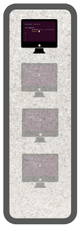
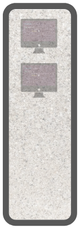
changing level 2

diff --git a/maze/js/level2.js b/maze/js/level2.js
@@ -752,8 +752,6 @@ Maze.Level2.DisplayStudent = function(x, y, d, opt_angle) {
     if((x == finish_.x) && (y == finish_.y)){
         Maze.Level2.Reset(false);
         Maze.Level2.Execute();
-        if(Maze.Level2.activity_.num == 2)
-            Maze.Level2.AddActivitySprites();
     }
 };
 
@@ -783,7 +781,7 @@ Maze.Level2.ScheduleLook = function(d, x, y) {
 };
 
 Maze.Level2.NotDone = function(){
-    return Maze.Level2.activity_.num != 4;
+    return Maze.Level2.activity_.num != 2;
 };
 
 Maze.Level2.isActivity = function(x, y){
